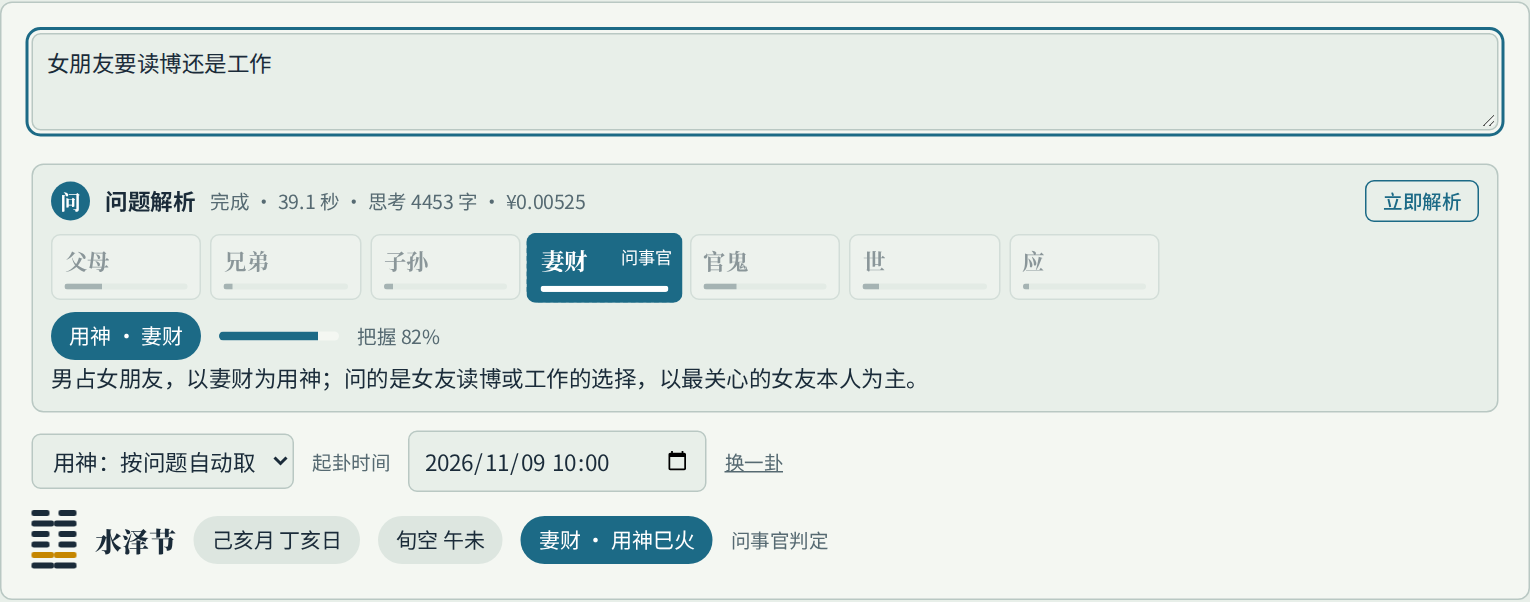
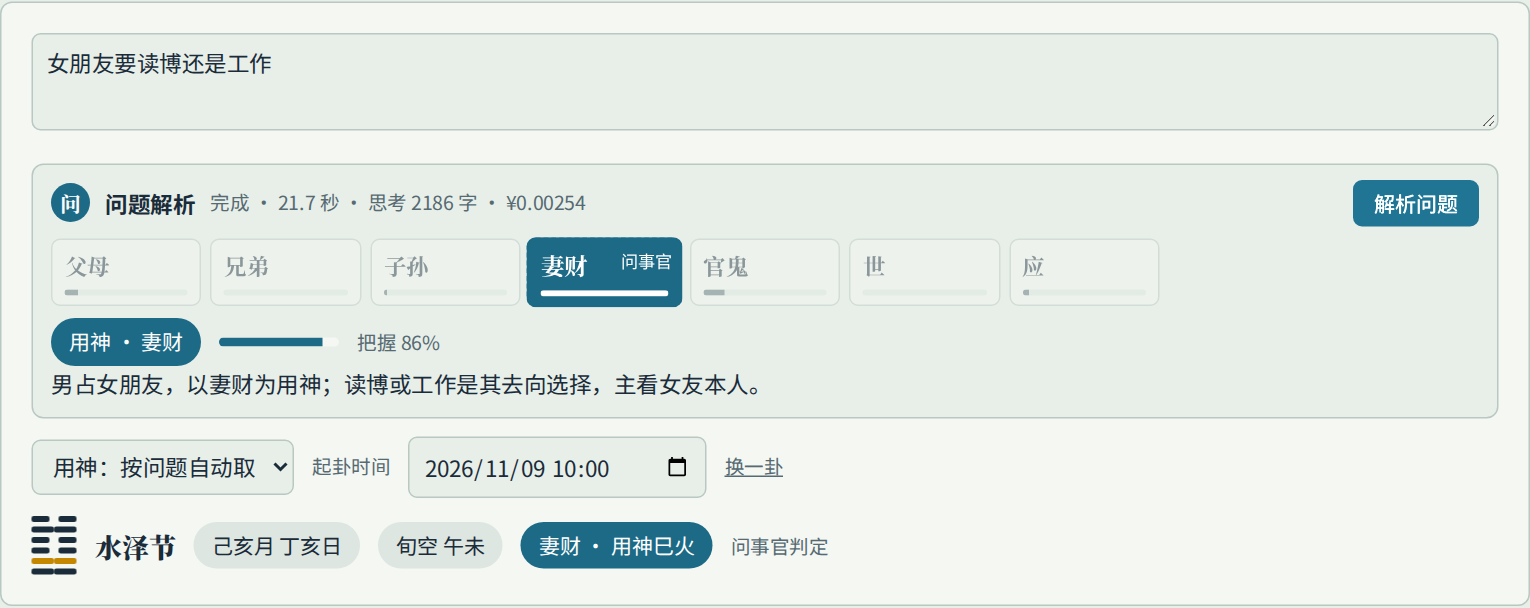
问题解析改为点按钮触发，不再自动解析
刷新页面会自动解析预填问题、输入未完就开始解析；改为只在点“解析问题”时调用问事官，输入只更新关键词初判并取消进行中的解析。

diff --git a/src/app.js b/src/app.js
@@ -708,7 +708,7 @@ views.tui = function () {
   var t = c.t || nowBJ(), inp = $('#tt');
   function p2(n) { return String(n).padStart(2, '0'); }
   inp.value = t[0] + '-' + p2(t[1]) + '-' + p2(t[2]) + 'T' + p2(t[3]) + ':' + p2(t[4] || 0);
-  $('#tq').oninput = function (e) { tui.q = e.target.value; tuiCompute(false); qaSchedule(); };
+  $('#tq').oninput = function (e) { tui.q = e.target.value; tuiCompute(false); qaReset(); };
   $('#ty').onchange = function (e) { tui.yong = e.target.value; tuiCompute(true); };
   inp.oninput = function () { tuiCompute(true); };
   $('#tpv').onclick = function () { tuiStop(); tuiGo(tui.step - 1); };
@@ -786,7 +786,7 @@ function tuiAI() {
   if (!window.fetch || location.protocol === 'file:') return;
   fetch('api/health').then(function (r) { return r.ok ? r.json() : null; }).then(function (h) {
     if (!h || !h.llm || !h.llm.configured || !$('#tai')) return;
-    $('#tai').hidden = false; tui.llm = true; tuiCompute(false); qaSchedule(true);
+    $('#tai').hidden = false; tui.llm = true; tuiCompute(false); qaReset();
     $('#tst').textContent = '模型 ' + h.llm.model + ' · 今日已用 ¥' + h.llm.spentToday + (h.llm.dailyBudget > 0 ? ' / ¥' + h.llm.dailyBudget : '');
     $('#tgo').onclick = function () {
       var m = $('#tt').value.match(/(\d+)-(\d+)-(\d+)T(\d+):(\d+)/), b = $('#tgo'), mode = $('#tmd').value;
@@ -824,16 +824,15 @@ function tuiPicked() {
   return a ? { yong: a.yong, yongBy: 'wenshi', yongReason: a.reason, yongConfidence: a.confidence } : {};
 }
 
-// ---- 问题解析：停笔即调用问事官，候选用神随思考实时变化 ----
+// ---- 问题解析：点按钮调用问事官，候选用神随思考实时变化 ----
 var QY = ['父母', '兄弟', '子孙', '妻财', '官鬼', '世', '应'];
 var QTERM = { 父母: /父母|parent/gi, 兄弟: /兄弟|sibling|brother/gi, 子孙: /子孙|offspring|descendant|medicine/gi, 妻财: /妻财|wealth|wife/gi, 官鬼: /官鬼|official|career/gi, 世: /世爻|取世|自占|self line/gi, 应: /应爻|取应|other party/gi };
-var qa = { timer: null, ctl: null, raf: 0 };
-function qaAbort() { clearTimeout(qa.timer); qa.timer = null; if (qa.ctl) { qa.ctl.abort(); qa.ctl = null; } cancelAnimationFrame(qa.raf); qa.raf = 0; }
+var qa = { ctl: null, raf: 0 };
+function qaAbort() { if (qa.ctl) { qa.ctl.abort(); qa.ctl = null; } cancelAnimationFrame(qa.raf); qa.raf = 0; }
 function qaShell() {
   var box = $('#tqa'); if (!box) return null;
   if (!box.firstChild) {
-    box.innerHTML = '<div class="qhd"><span class="atag">问</span><b>问题解析</b><span class="small" id="qst"></span><button class="btn ghost" id="qgo">立即解析</button></div>' +
-      '<div class="qdeb" hidden><i></i></div>' +
+    box.innerHTML = '<div class="qhd"><span class="atag">问</span><b>问题解析</b><span class="small" id="qst"></span><button class="btn" id="qgo">解析问题</button></div>' +
       '<div class="cands">' + QY.map(function (y) { return '<div class="cand" data-y="' + y + '"><span>' + y + '</span><i class="cbar"><b></b></i><em></em></div>'; }).join('') + '</div>' +
       '<div class="qthink small" hidden></div><div class="qres"></div>';
     $('#qgo').onclick = function () { qaRun(); };
@@ -857,19 +856,18 @@ function qaWeigh(text, kw) {
   if (kw) w[kw] += 0.3; // 关键词初判留一点底分，思考刚开始时也有倾向
   return w;
 }
-function qaSchedule(now) {
+// 问题改动后只更新关键词初判、取消进行中的解析；交给问事官要用户点按钮
+function qaReset() {
   if (!tui.llm) return;
   var q = tui.q.trim(), box = qaShell(); if (!box) return;
+  $('#qgo').disabled = q.length < 2;
   if (tuiAiYong()) return;
   var kw = YiInfer.classify(q).yong, w = {};
   qaAbort(); box.classList.remove('busy');
   $('.qthink', box).hidden = true; $('.qres', box).innerHTML = '';
-  if (q.length < 4) { qaCands(kw, {}, null); $('#qst').textContent = '写下问题，停笔后问事官自动取用神'; $('.qdeb', box).hidden = true; return; }
+  if (q.length < 2) { qaCands(kw, {}, null); $('#qst').textContent = '写好问题后点“解析问题”，问事官来取用神'; return; }
   w[kw] = 1; qaCands(kw, w, null);
-  if (now) return qaRun();
-  $('#qst').textContent = '关键词初判 ' + kw + ' · 停笔 1 秒后交给问事官';
-  var d = $('.qdeb', box); d.hidden = false; d.firstChild.style.animation = 'none'; void d.offsetWidth; d.firstChild.style.animation = '';
-  qa.timer = setTimeout(qaRun, 1000);
+  $('#qst').textContent = '关键词初判 ' + kw + ' · 写好后点“解析问题”交给问事官';
 }
 function qaRun() {
   var q = tui.q.trim(), box = qaShell(); if (!box || q.length < 2) return;
@@ -877,7 +875,7 @@ function qaRun() {
   var kw = YiInfer.classify(q).yong, ctl = window.AbortController ? new AbortController() : {}, t0 = Date.now(), first = 0, think = '', out = '', lock = null, done = false;
   qa.ctl = ctl;
   var st = $('#qst'), th = $('.qthink', box), res = $('.qres', box);
-  $('.qdeb', box).hidden = true; th.hidden = true; th.textContent = ''; res.innerHTML = ''; box.classList.add('busy');
+  th.hidden = true; th.textContent = ''; res.innerHTML = ''; box.classList.add('busy');
   function sec() { return ((Date.now() - t0) / 1000).toFixed(1); }
   function status() { st.textContent = !first ? '问事官已接到问题 · 等模型首字 ' + sec() + ' 秒' : lock ? '已定用神 ' + lock + ' · 正在写理由 · ' + sec() + ' 秒' : '问事官思考中 · ' + think.length + ' 字 · ' + sec() + ' 秒'; }
   var tick = setInterval(function () { if (done || qa.ctl !== ctl) return clearInterval(tick); status(); }, 200);

diff --git a/src/style.css b/src/style.css
@@ -234,10 +234,8 @@ details{border-top:1px solid var(--line);padding-top:8px}summary{cursor:pointer;
 /* 问题解析 */
 .qa{margin-top:10px;border:1px solid var(--line);border-radius:8px;padding:10px 12px;background:var(--paper);display:grid;gap:8px;min-width:0}
 .qa.busy{border-color:var(--accent)}
-.qhd{display:flex;flex-wrap:wrap;align-items:center;gap:6px 10px}.qhd #qst{flex:1;min-width:12em}.qhd .btn{padding:3px 12px;font-size:13px}
+.qhd{display:flex;flex-wrap:wrap;align-items:center;gap:6px 10px}.qhd #qst{flex:1;min-width:12em}.qhd .btn{padding:4px 14px;font-size:14px}
 .qhd .atag{display:inline-grid;place-items:center;width:26px;height:26px;border-radius:50%;background:var(--accent);color:var(--on);font:700 14px var(--serif)}
-.qdeb{height:3px;background:var(--well);border-radius:2px;overflow:hidden}.qdeb i{display:block;height:100%;background:var(--accent);transform-origin:left;animation:qdeb 1s linear forwards}
-@keyframes qdeb{from{transform:scaleX(0)}to{transform:scaleX(1)}}
 .cands{display:grid;grid-template-columns:repeat(auto-fill,minmax(92px,1fr));gap:6px}
 .cand{position:relative;border:1px solid var(--line);border-radius:6px;padding:4px 8px 6px;background:var(--card);transition:border-color .3s,opacity .3s,transform .3s,background .3s}
 .cand span{font:700 15px var(--serif)}.cand em{position:absolute;right:6px;top:6px;font:400 11px var(--sans);font-style:normal;color:var(--muted)}
@@ -249,4 +247,4 @@ details{border-top:1px solid var(--line);padding-top:8px}summary{cursor:pointer;
 .qa.busy .qthink::before{content:'';display:inline-block;width:6px;height:6px;border-radius:50%;background:var(--accent);margin-right:6px;vertical-align:2px;animation:pulse 1s infinite}
 .qreason{line-height:1.6}.caret{display:inline-block;width:2px;height:1em;background:var(--accent);vertical-align:-2px;margin-left:2px;animation:pulse .8s infinite}
 .qclar{color:var(--move)}
-@media (prefers-reduced-motion:reduce){.qdeb i,.caret,.qa.busy .qthink::before{animation:none}.cand,.cbar b{transition:none}}
+@media (prefers-reduced-motion:reduce){.caret,.qa.busy .qthink::before{animation:none}.cand,.cbar b{transition:none}}

diff --git a/lib/agents.js b/lib/agents.js
@@ -148,7 +148,7 @@ async function narrator(run, question, ctx, yh, checks, fu, on) {
   return msg.content;
 }
 
-// 只做问题解析：页面上停笔即调用，流式返回问事官的思考与结论
+// 只做问题解析：页面上点“解析问题”时调用，流式返回问事官的思考与结论
 export async function parseQuestion(question, emit = () => {}, signal) {
   const run = newRun(), { YiInfer } = yi();
   const j = await wenshi(run, question, YiInfer.classify(question), emit, signal);

diff --git a/tests/smoke_live.py b/tests/smoke_live.py
@@ -10,8 +10,14 @@ with sync_playwright() as p:
         pg = b.new_page(viewport=vp, color_scheme="dark" if dark else "light")
         pg.on("pageerror", lambda e: errs.append((name, str(e))))
         pg.goto(base + "#tui"); pg.wait_for_selector("#tai:not([hidden])", timeout=8000)
+        # 打开页面不应自动解析预填的问题
+        pg.wait_for_timeout(1800)
+        if "完成" in pg.inner_text("#qst") or pg.query_selector("#tqa .cand.lock"): errs.append((name, "auto-parse-on-load"))
         pg.fill("#tq", "这个月能收回欠款吗"); pg.select_option("#tmd", "compare")
-        # 问题解析：停笔后自动调用问事官，锁定一个候选并写出理由，回放随之改用该用神
+        # 问题解析只在点按钮后调用：输入后等一会儿不应自动开始
+        pg.wait_for_timeout(1800)
+        if pg.query_selector("#tqa.busy") or pg.query_selector("#tqa .cand.lock"): errs.append((name, "auto-parse-on-input"))
+        pg.click("#qgo")
         pg.wait_for_selector("#tqa .cand.lock", timeout=10000)
         pg.wait_for_function("document.querySelector('#qst').textContent.startsWith('完成')", timeout=10000)
         if pg.eval_on_selector_all("#tqa .cand", "e => e.length") != 7: errs.append((name, "cands"))

diff --git a/README.en.md b/README.en.md
@@ -33,7 +33,7 @@ This project splits the work:
 | 🧮 **Verifiable rules** | 594 chart checks against the open-source [najia](https://pypi.org/project/najia/) library with 0 differences; all 296 charts printed in *Zengshan Buyi* reproduced line by line |
 | 📜 **Every step sourced** | ~40 rules, each with chapter and original text, shown as the replay advances |
 | 🤖 **Multi-agent + tools** | Intake → rule engine → Yehe diviner → (Fu Peirong text reader) → auditor → narrator |
-| 🎯 **Parses as you type** | A second after you stop typing, the intake agent starts picking the relevant line. Seven candidate bars rise and fall with the model's reasoning, lock when it answers, and the replay switches to that line; the full run reuses it |
+| 🎯 **Live question parsing** | Click "parse" and the intake agent starts picking the relevant line. Seven candidate bars rise and fall with the model's reasoning, lock when it answers, and the replay switches to that line; the full run reuses it |
 | ⚡ **Fully live** | Pipeline progress, time to first token per request, streaming reasoning, every tool call with arguments and result, each audit check, live tokens and cost |
 | 🔌 **Bring your own model** | Any OpenAI-compatible endpoint (DeepSeek, Qwen, GLM, local vLLM…); a full compare run on deepseek-v4.1-flash costs about ¥0.01 |
 | 🎓 **Beginner friendly** | Six interactive levels — yin/yang, trigrams, line positions, reading the texts, casting, interpreting — plus Plum Blossom (梅花易数), Najia charting, a hexagram dictionary and drills |
@@ -50,7 +50,7 @@ This project splits the work:
 <td><img src="docs/images/l6.png" alt="Reading"><br><sub><b>Reading</b>: toggle moving lines; Zhu Xi's rules pick which text to read</sub></td>
 </tr>
 <tr>
-<td><img src="docs/images/parse.png" alt="Question parsing"><br><sub><b>Question parsing</b>: starts when you stop typing; candidate lines rise and fall with the model's reasoning</sub></td>
+<td><img src="docs/images/parse.png" alt="Question parsing"><br><sub><b>Question parsing</b>: click to start; candidate lines rise and fall with the model's reasoning</sub></td>
 <td><img src="docs/images/parse-done.png" alt="Parsing done"><br><sub><b>Parsed</b>: locked line, confidence and reason; the replay switches to it</sub></td>
 </tr>
 </table>

diff --git a/README.md b/README.md
@@ -33,7 +33,7 @@
 | 🧮 **规则可验证** | 排盘与开源库 [najia](https://pypi.org/project/najia/) 交叉核对 594 项，0 差异；《增删卜易》书中 296 个卦逐爻核对，全部一致 |
 | 📜 **步步有出处** | 约 40 条规则，每条附章节与原文，推演时随步骤展示 |
 | 🤖 **多智能体 + 工具调用** | 问事官 → 规则引擎 → 野鹤断卦师 →（傅佩荣读辞师）→ 审核官 → 讲解员 |
-| 🎯 **停笔即解析** | 写完问题一秒内问事官开始取用神：七个候选的权重随模型思考实时起落，一给出用神就锁定，回放随即改用它；推算时直接沿用，不再等第二遍 |
+| 🎯 **问题解析实时可见** | 写好问题点“解析问题”，问事官开始取用神：七个候选的权重随模型思考实时起落，一给出用神就锁定，回放随即改用它；推算时直接沿用，不再等第二遍 |
 | ⚡ **全程实时可见** | 流水线进度、每次请求的首字耗时、逐字的思考过程、每次工具调用的参数与返回、每条审核结果、实时 token 与花费 |
 | 🔌 **自带模型** | 任意 OpenAI 兼容接口（DeepSeek、通义、GLM、本地 vLLM…）；用 deepseek-v4.1-flash 跑一次完整对比约 ¥0.01 |
 | 🎓 **零基础也能学** | 六个阶段从阴阳、八卦、爻位、读辞、起卦到解卦，配大量交互图形和动画，另有梅花易数、纳甲六爻、卦典与记忆练习 |
@@ -50,7 +50,7 @@
 <td><img src="docs/images/l6.png" alt="解卦"><br><sub><b>解卦</b>：点爻改变动爻，按朱熹变爻规则自动指出该读哪一句</sub></td>
 </tr>
 <tr>
-<td><img src="docs/images/parse.png" alt="问题解析进行中"><br><sub><b>问题解析</b>：停笔即开始，候选用神随问事官的思考实时起落</sub></td>
+<td><img src="docs/images/parse.png" alt="问题解析进行中"><br><sub><b>问题解析</b>：点按钮开始，候选用神随问事官的思考实时起落</sub></td>
 <td><img src="docs/images/parse-done.png" alt="问题解析完成"><br><sub><b>解析完成</b>：锁定用神、给出把握与理由，回放随即改用</sub></td>
 </tr>
 </table>

diff --git a/HANDOFF.md b/HANDOFF.md
@@ -14,7 +14,7 @@
 
 ## 进行中
 无未完成的改动。现状：
-- 线上服务已部署最新代码（含问题解析、问药取子孙提示词、JSON 自动修复），健康检查正常。
+- 线上服务已部署最新代码（含问题解析——只在点“解析问题”按钮时调用，用户明确不要自动解析——、问药取子孙提示词、JSON 自动修复），健康检查正常。
 - 问事官独立取用神，不再看关键词结果；关键词表只做离线初判与事后对照（分歧写进日志事件 `note`）。
 - 取用神评测（`data/yong_eval.json` 68 题，`scripts/eval_yong.mjs`）：关键词 75%，模型+提示 97%，模型独立 99%，三次投票无增益。唯一错题 B279（父病吃人参）之后已在提示词补“问药看子孙”，单题实测已对，68 题未重跑。
 

diff --git a/docs/sessions/20261110-0815.md b/docs/sessions/20261110-0815.md
@@ -11,6 +11,8 @@
 - 评测脚本并发改为按请求数计，默认 80。
 - 新建公开仓库 JYao-Chen/yijing-study，中英文 README（评测表、真实模型截图），MIT。
 
+- 用户试用后反馈：刷新页面就自动解析预填问题、没输完就开始解析。改为只在点“解析问题”按钮时调用，输入只更新关键词初判并取消进行中的解析。
+
 ## 验证
 - dev-linux `scripts/verify.sh` 最后一次退出码 0：接口测试 7/7、Playwright 冒烟（含问题解析与实时面板）0 错误、najia 对照 594/0、书中 296 卦排盘一致、推理 187 例 0 报错、应期留出集 29/50。
 - 真实模型：对比模式完整推算一次 140.9 秒、6 次调用、¥0.013，审核全通过；问题解析单次 8–10 秒、约 ¥0.0005–0.001。
